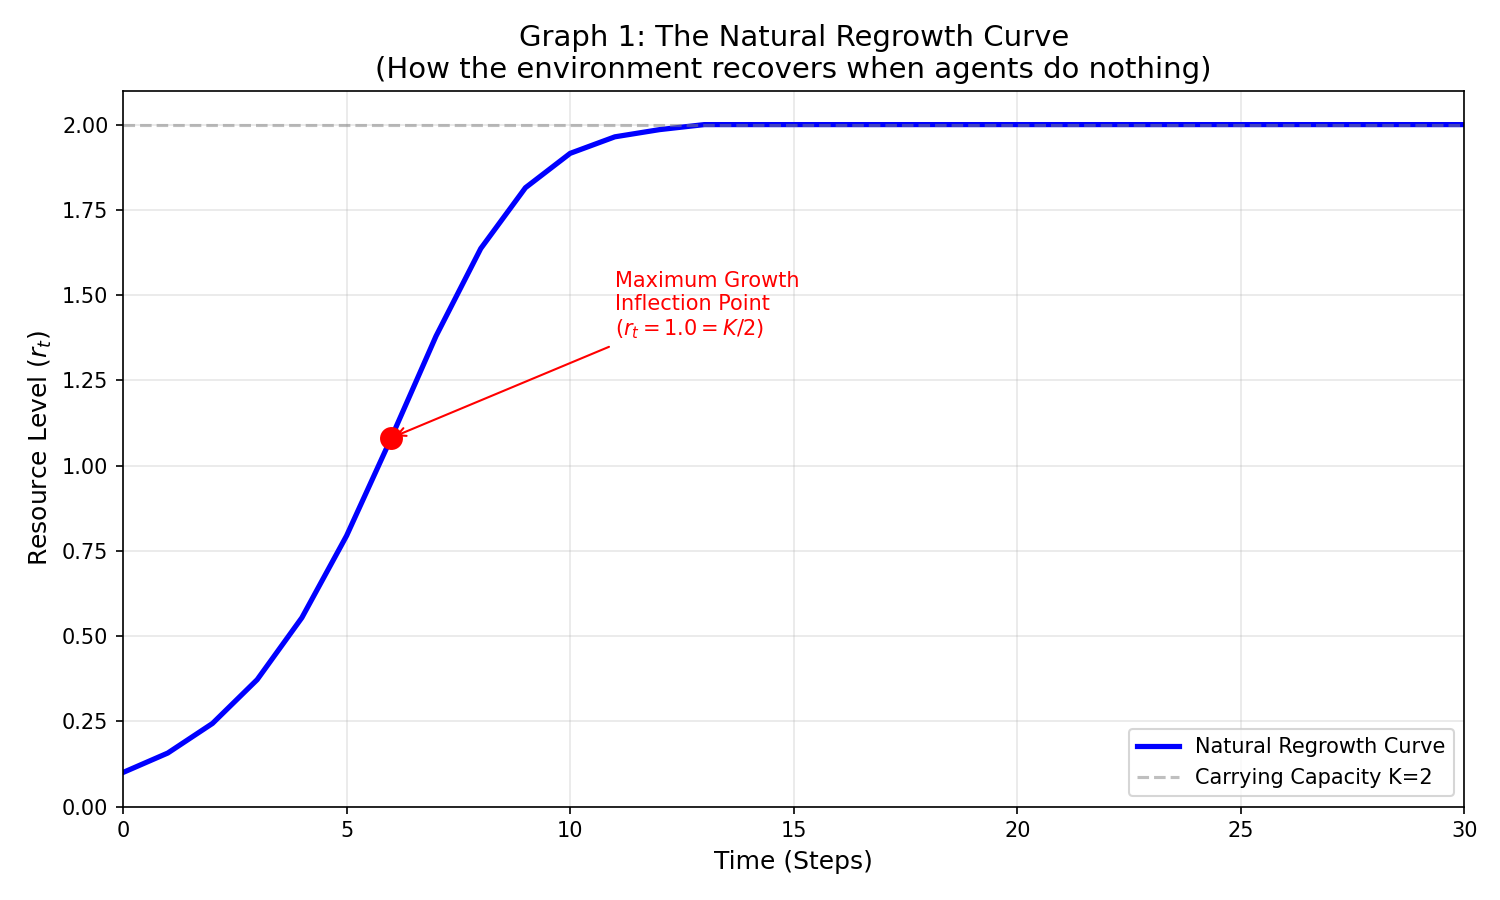
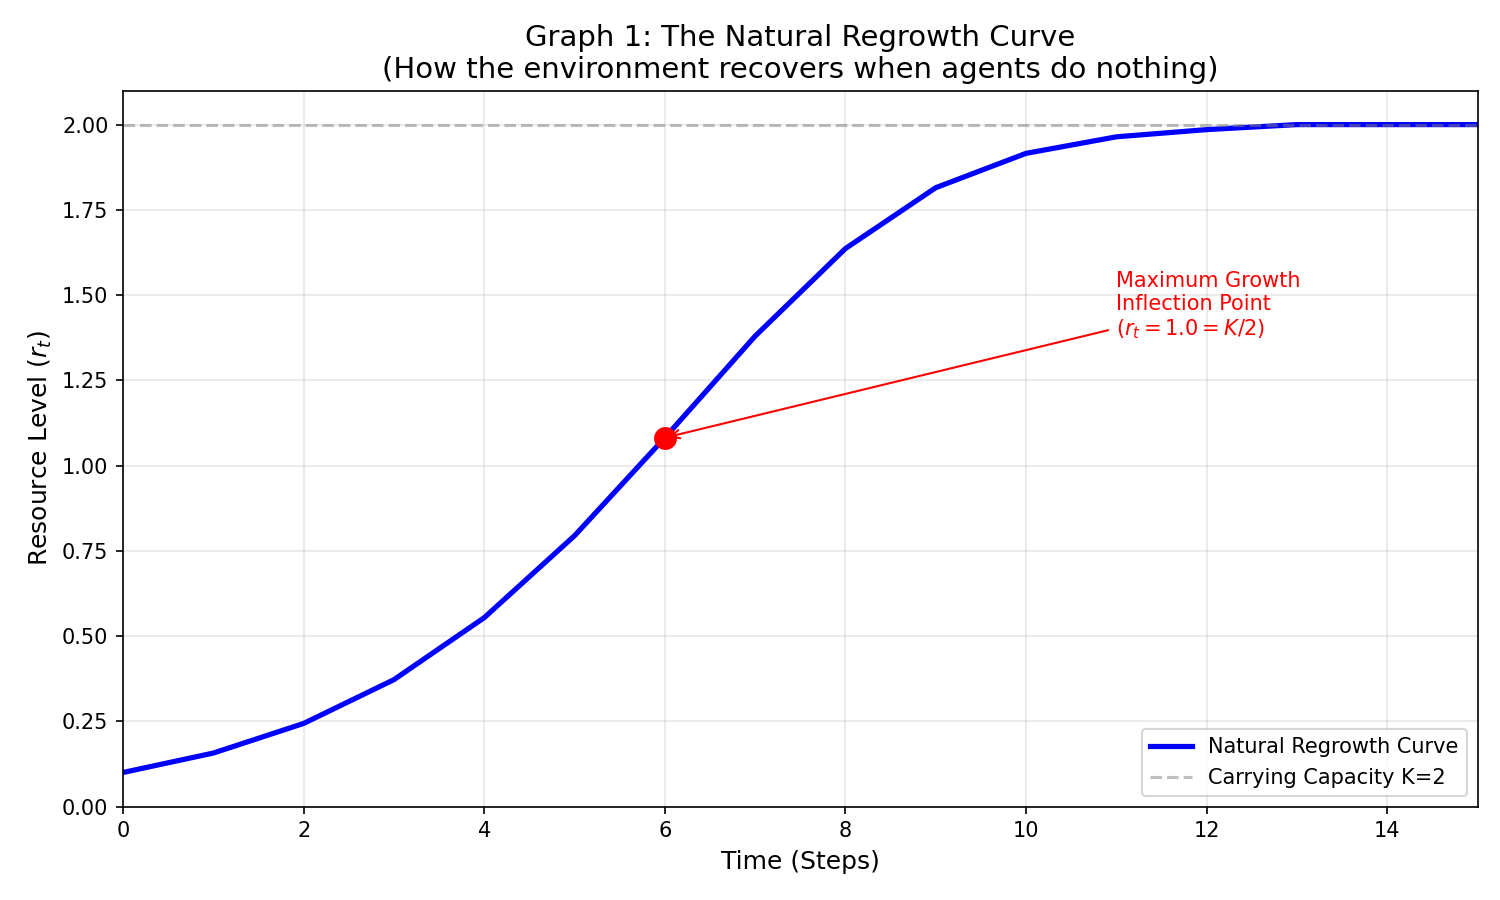
feat: add random and greed agent

diff --git a/scripts/evaluate_baselines.py b/scripts/evaluate_baselines.py
@@ -1,0 +1,202 @@
+#!/usr/bin/env python3
+import argparse
+import csv
+import json
+import logging
+import numpy as np
+from pathlib import Path
+from tqdm import tqdm
+
+from core.env_utils import make_env
+from sustainable_foraging.foraging.aecEnvironment import Action
+
+logging.basicConfig(level=logging.INFO)
+logger = logging.getLogger(__name__)
+
+def random_policy(obs, env, agent):
+    """Returns a random action from the agent's action space."""
+    return env.action_space(agent).sample()
+
+def greedy_policy(obs, env, agent):
+    """
+    Myopic baseline: Moves towards the closest visible food.
+    If adjacent to food, loads. If no food visible, moves randomly.
+    Acts purely on the raw observation array (NumPy).
+    Handles both flat (1D) and grid (3D) observations.
+    """
+    if len(obs.shape) == 3:
+        # Grid observation: shape is (3, H, W)
+        # Layer 0: agents, Layer 1: foods, Layer 2: access
+        player_y, player_x = obs.shape[1] // 2, obs.shape[2] // 2
+        
+        foods_y, foods_x = np.nonzero(obs[1])
+        if len(foods_y) == 0:
+            return env.action_space(agent).sample()
+            
+        min_dist = float('inf')
+        closest_food = None
+        
+        for fy, fx in zip(foods_y, foods_x):
+            dist = abs(fy - player_y) + abs(fx - player_x)
+            if dist < min_dist:
+                min_dist = dist
+                closest_food = (fy, fx)
+                
+        if closest_food is None:
+            return env.action_space(agent).sample()
+            
+        fy, fx = closest_food
+        
+    else:
+        # Flat observation
+        max_num_food = env.unwrapped.max_num_food
+        player_idx = max_num_food * 2
+        player_y = obs[player_idx]
+        player_x = obs[player_idx + 1]
+
+        if player_y == -1 or player_x == -1:
+            return env.action_space(agent).sample()
+
+        min_dist = float('inf')
+        closest_food = None
+
+        for i in range(max_num_food):
+            fy, fx = obs[2*i], obs[2*i+1]
+            if fy == -1 and fx == -1:
+                continue
+            dist = abs(fy - player_y) + abs(fx - player_x)
+            if dist < min_dist:
+                min_dist = dist
+                closest_food = (fy, fx)
+
+        if closest_food is None:
+            return env.action_space(agent).sample()
+
+        fy, fx = closest_food
+
+    if min_dist == 1:
+        return 5  # LOAD
+
+    # NORTH = 1 (y - 1), SOUTH = 2 (y + 1), WEST = 3 (x - 1), EAST = 4 (x + 1)
+    if fy < player_y:
+        return 1
+    elif fy > player_y:
+        return 2
+    elif fx < player_x:
+        return 3
+    elif fx > player_x:
+        return 4
+
+    return env.action_space(agent).sample()
+
+def evaluate(policy_fn, policy_name, num_episodes=500, sight=2, seed=1):
+    # Initialize the base AEC environment with the fair preset
+    from sustainable_foraging.foraging import AECForagingEnv
+    from sustainable_foraging.foraging.sustainable_benchmark import get_preset
+    from core.log_utils import ForagingMetricsWrapper
+    
+    env_config = get_preset("fair")
+    env_config["sight"] = sight
+    base_env = AECForagingEnv(**env_config)
+    env = ForagingMetricsWrapper(base_env)
+
+    logger.info(f"Evaluating {policy_name} (sight={sight}, seed={seed}) for {num_episodes} episodes...")
+
+    metrics = []
+
+    env.reset(seed=seed)
+    for ep in tqdm(range(num_episodes), desc=f"{policy_name} s={sight} seed={seed}"):
+        if ep > 0:
+            env.reset()
+        
+        while getattr(env, "agents", None):
+            agent = env.agent_selection
+            obs, reward, terminated, truncated, info = env.last()
+            
+            if terminated or truncated:
+                action = None
+            else:
+                action = policy_fn(obs, env, agent)
+                
+            env.step(action)
+            
+            # Check if this agent finished the episode and recorded metrics
+            if (terminated or truncated) and "episode_metrics" in info:
+                if len(metrics) == 0 or info["episode_metrics"] != metrics[-1]:
+                    metrics.append(info["episode_metrics"])
+                    
+    # Only keep exactly num_episodes
+    metrics = metrics[:num_episodes]
+
+    # Calculate averages
+    avg_reward = np.mean([m["reward_total"] for m in metrics])
+    avg_length = np.mean([m["length"] for m in metrics])
+    avg_foods = np.mean([m["foods_collected"] for m in metrics])
+    avg_sustainability = np.mean([m["food_remaining_end"] for m in metrics])
+
+    logger.info(f"Results for {policy_name} (sight={sight}, seed={seed}):")
+    logger.info(f"  Avg Reward: {avg_reward:.2f}")
+    logger.info(f"  Avg Length: {avg_length:.2f}")
+    logger.info(f"  Avg Foods:  {avg_foods:.2f}")
+    logger.info(f"  Avg Sustain:{avg_sustainability:.2f}")
+
+    return metrics
+
+def write_logs(policy_name, metrics, obs_type="pomdp", seed=1, total_timesteps=5_000_000):
+    """
+    Writes the metrics to CSV logs compatible with compare_algorithms.py.
+    We linearly interpolate the episode timesteps across `total_timesteps`
+    so the baselines appear as continuous flat lines on the graphs.
+    """
+    import os
+    run_dir = Path(f"logs/baseline_{policy_name.lower()}_{obs_type}_seed{seed}")
+    run_dir.mkdir(parents=True, exist_ok=True)
+
+    # Write config.json
+    config = {
+        "library": "Baseline",
+        "algorithm": policy_name
+    }
+    with open(run_dir / "config.json", "w") as f:
+        json.dump(config, f, indent=4)
+
+    # Write metrics.csv
+    num_points = 100
+    timesteps = np.linspace(0, total_timesteps, num_points, dtype=int)
+    
+    # Calculate average metrics over all episodes
+    avg_reward = np.mean([m["reward_total"] for m in metrics])
+    avg_length = np.mean([m["length"] for m in metrics])
+    avg_foods = np.mean([m["foods_collected"] for m in metrics])
+    avg_sustainability = np.mean([m["food_remaining_end"] for m in metrics])
+    
+    with open(run_dir / "metrics.csv", "w", newline="") as f:
+        writer = csv.writer(f)
+        writer.writerow(["timestep", "reward_total", "length", "foods_collected", "food_remaining_end"])
+        
+        for ts in timesteps:
+            writer.writerow([
+                int(ts),
+                avg_reward,
+                avg_length,
+                avg_foods,
+                avg_sustainability
+            ])
+            
+    logger.info(f"Saved {policy_name} logs to {run_dir}")
+
+def main():
+    parser = argparse.ArgumentParser()
+    parser.add_argument("--episodes", type=int, default=500)
+    args = parser.parse_args()
+
+    for sight, obs_type in [(2, "pomdp"), (8, "fomdp")]:
+        for seed in [1, 2, 3]:
+            random_metrics = evaluate(random_policy, "Random", args.episodes, sight=sight, seed=seed)
+            write_logs("Random", random_metrics, obs_type=obs_type, seed=seed)
+
+            greedy_metrics = evaluate(greedy_policy, "Greedy", args.episodes, sight=sight, seed=seed)
+            write_logs("Greedy", greedy_metrics, obs_type=obs_type, seed=seed)
+
+if __name__ == "__main__":
+    main()

diff --git a/scripts/train.py b/scripts/train.py
@@ -6,7 +6,6 @@ import sys
 from typing import Any
 import time
 from functools import wraps
-
 from sustainable_foraging.foraging.sustainable_benchmark import BENCHMARK_NAME, get_training_defaults, list_presets
 from scripts._bench_utils import get_standard_parser
 
@@ -78,10 +77,6 @@ def parse_args() -> argparse.Namespace:
 def main() -> None:
     args = parse_args()
     
-    # Validation
-    if args.algorithm == "sac":
-        raise NotImplementedError("SAC not implemented yet.")
-        
     if args.library == "sb3":
         if args.algorithm not in ["ppo", "a2c"]:
             raise ValueError(f"Algorithm {args.algorithm} not supported by sb3 runner (supported: ppo, a2c).")

diff --git a/graphs/resource_curves.py b/graphs/resource_curves.py
@@ -63,7 +63,7 @@ ax1.set_title(
     "Graph 1: The Natural Regrowth Curve\n(How the environment recovers when agents do nothing)",
     fontsize=14,
 )
-ax1.set_xlim(0, 30)
+ax1.set_xlim(0, 15)
 ax1.set_ylim(0, K + 0.1)
 ax1.grid(True, alpha=0.3)
 ax1.legend(loc="lower right")
